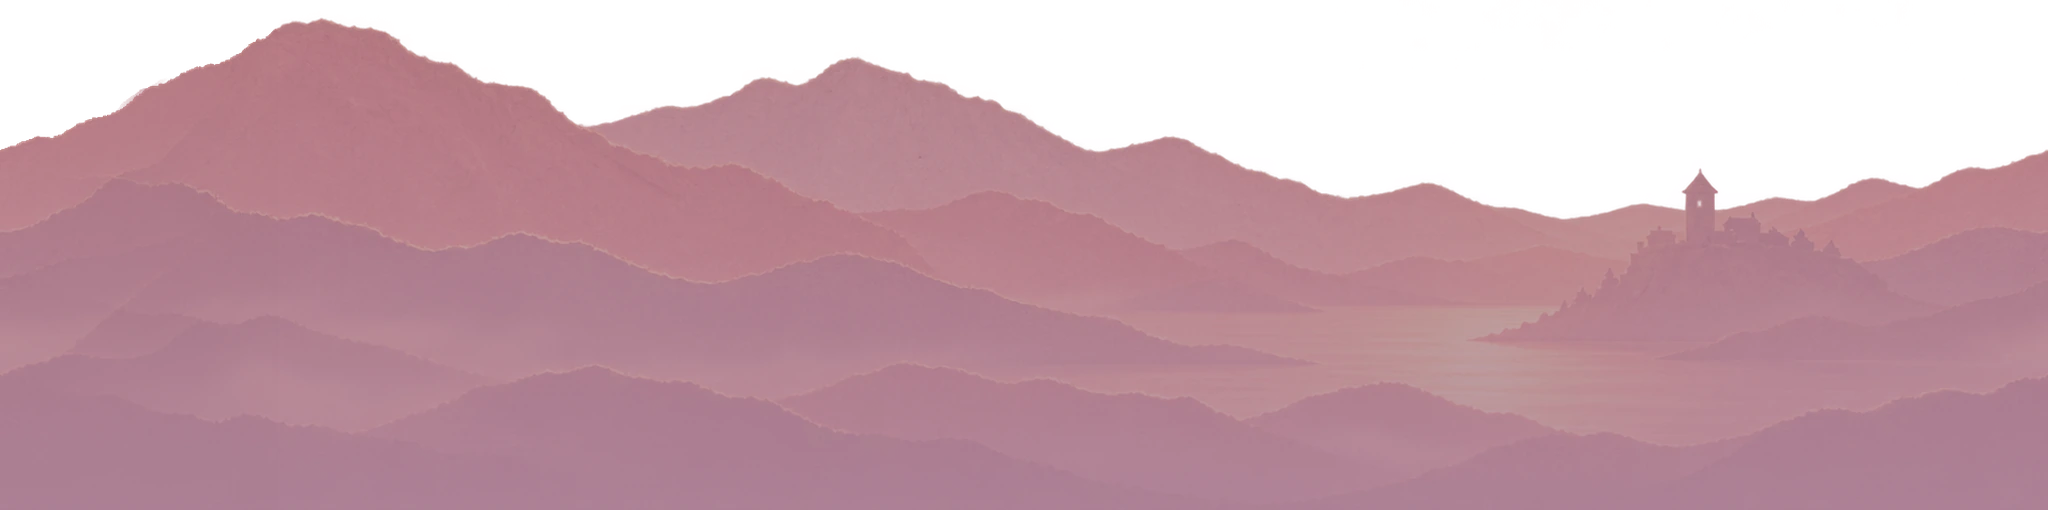
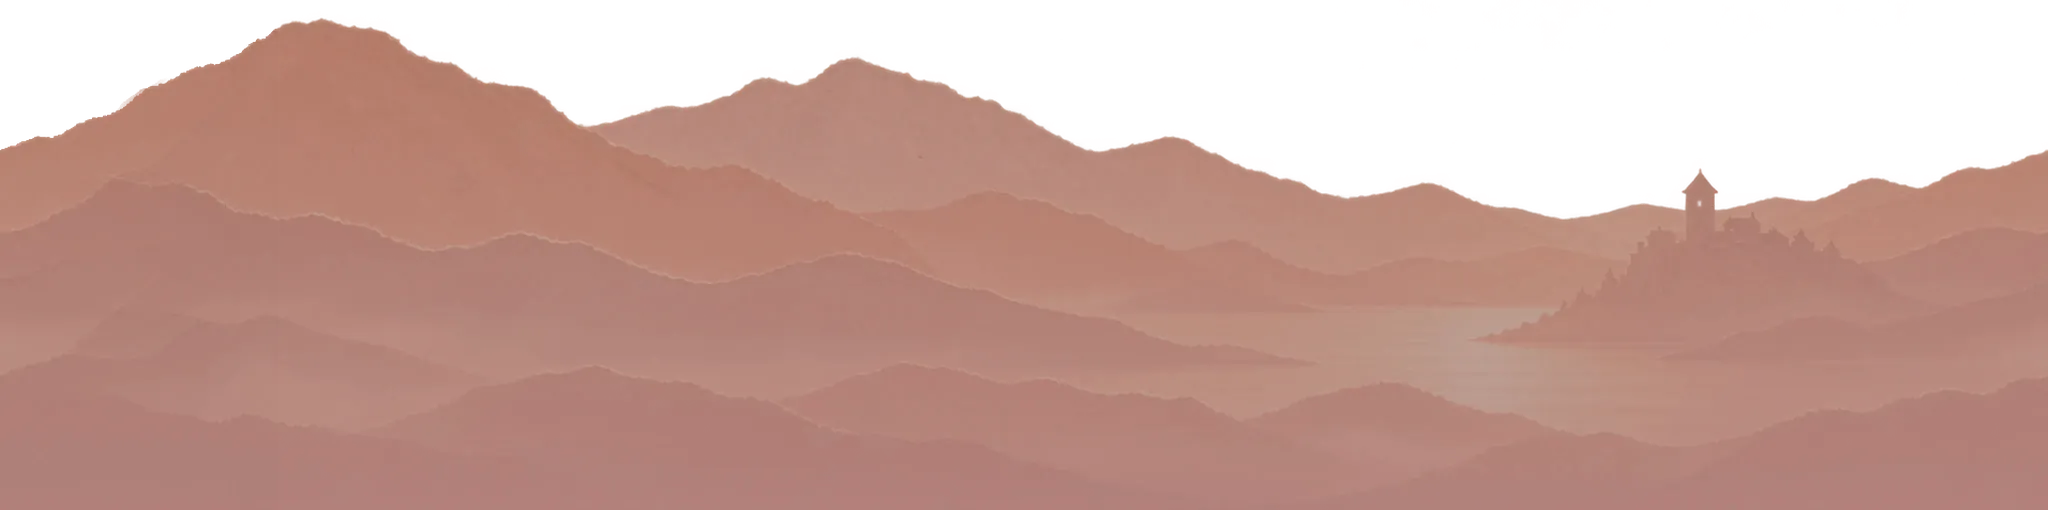
P5 MALVA: cerros lejanos del nivel 1 de malva a rosa viejo cálido (Oklch 0 a 34 grados, misma L y croma), webp -19 KB. Invitados 2 de 2 por la rama, 0 morado claro. Defecto con nombre: cerca del tono de los pinos.

diff --git a/src/art/capas.js b/src/art/capas.js
@@ -2,7 +2,7 @@
 // webp solo se piden si el jugador está en el nivel 1; si no cargan, se queda el fondo de código. Encima siguen obstáculos, fichas, Moki, hojas y bokeh.
 // Las sale de evidencia/salto-capas/herramientas/hacer-capas.py: solo fondo. Moki nunca pasa por ahí.
 import cieloUrl from '../../assets/capas/capa-cielo.webp';
-import lejosUrl from '../../assets/capas/capa-lejos-malva.webp'; // interruptor de los cerros: capa-lejos.webp (cálidos) o capa-lejos-malva.webp (0c94591)
+import lejosUrl from '../../assets/capas/capa-lejos-malva.webp'; // P5 MALVA (9-nov): el archivo malva ya es cálido, tono Oklch 0 a 33 con la misma L y croma (evidencia/p5-malva/herramientas/recolor.py). capa-lejos.webp es el cálido del 4-nov que falló por Moki comido
 import medioUrl from '../../assets/capas/capa-medio.webp';
 import sueloUrl from '../../assets/capas/capa-suelo.webp';
 
